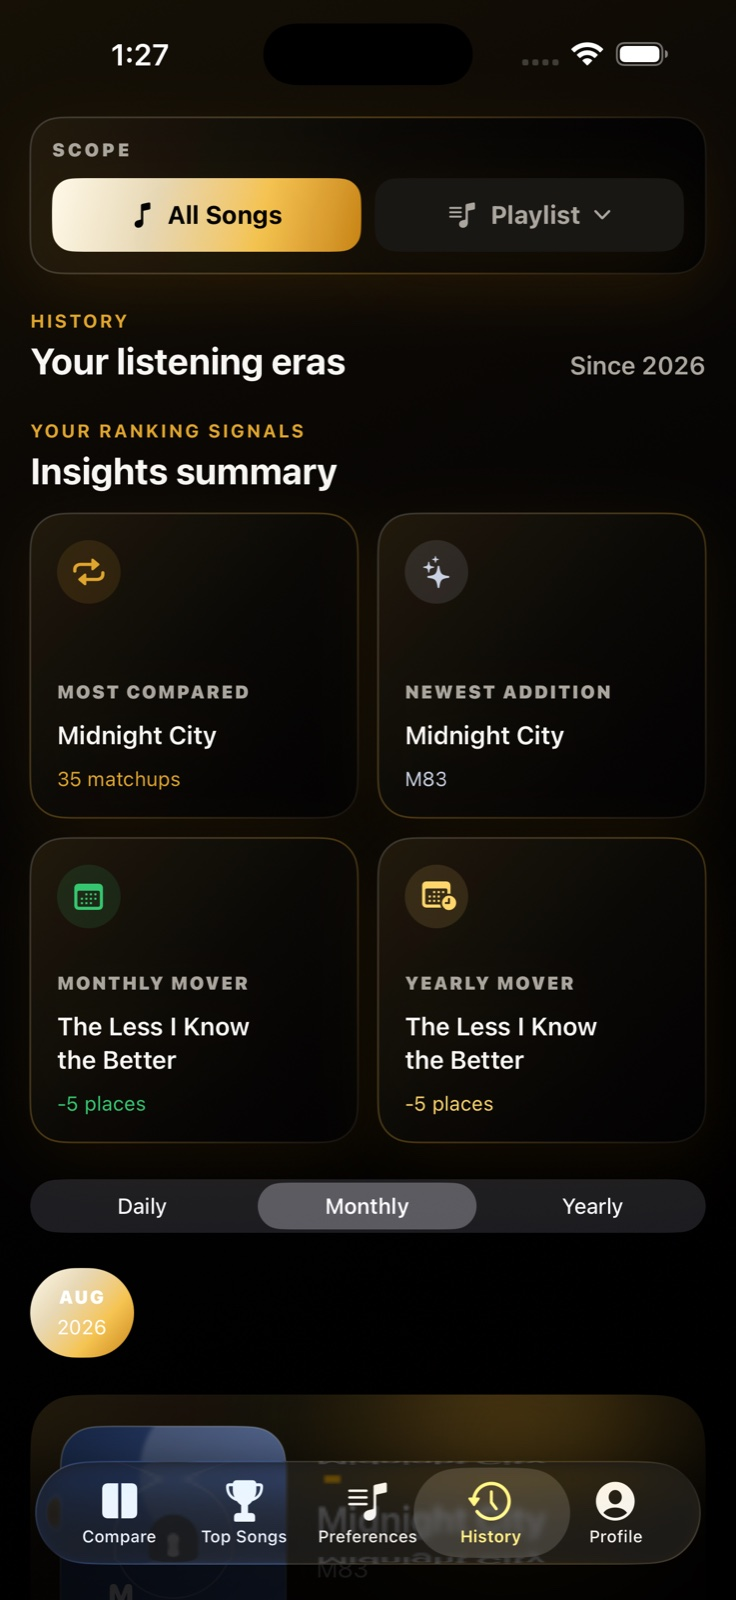
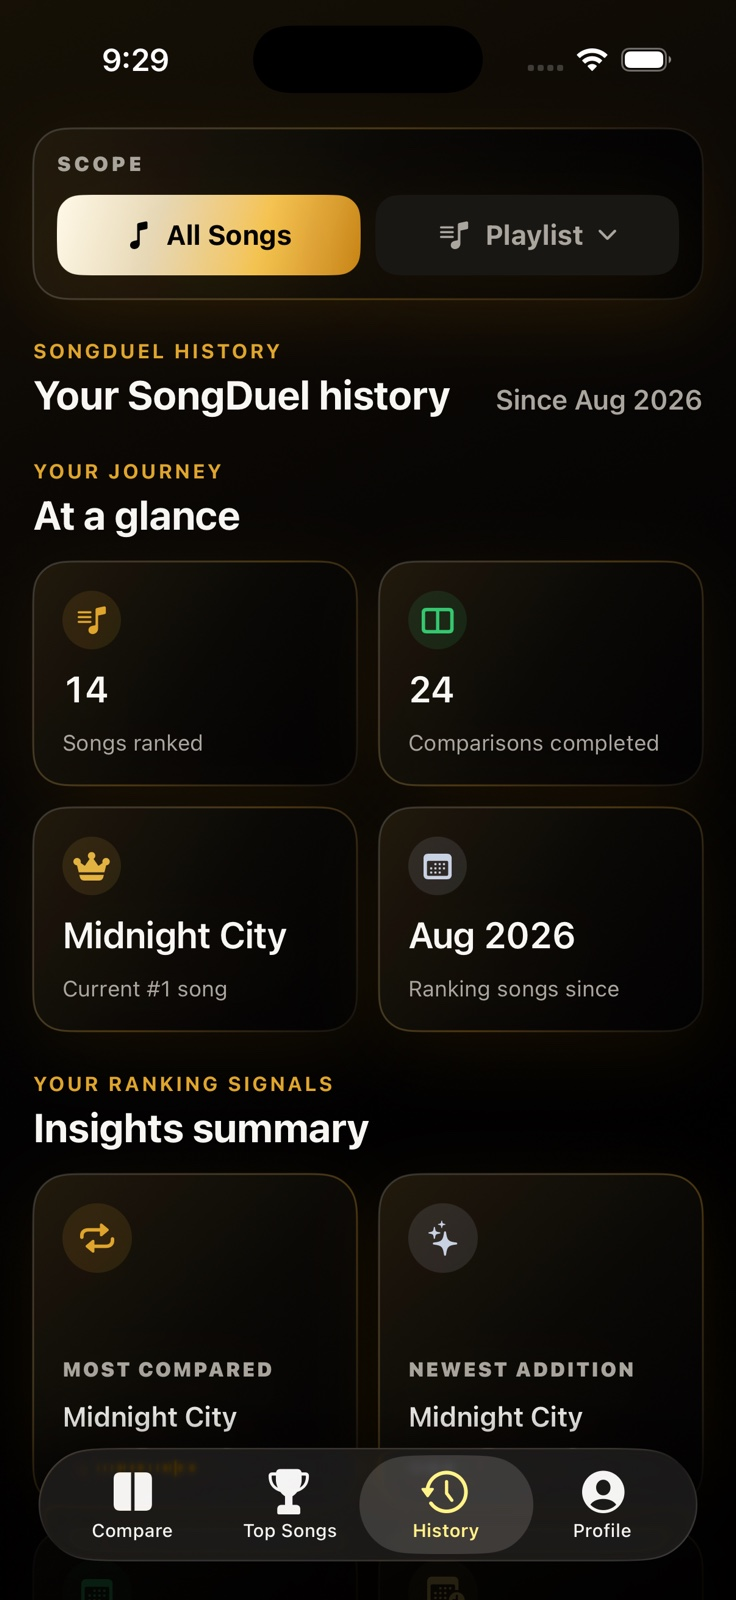
Update website for SongDuel Build 11

diff --git a/index.html b/index.html
@@ -67,11 +67,11 @@
           <div class="orbit orbit-two" aria-hidden="true"></div>
           <div class="phone phone-left" aria-hidden="true">
             <div class="phone-island"></div>
-            <img src="assets/screen-compare.jpg" alt="" width="736" height="1600">
+            <img src="assets/screen-rankings.jpg" alt="" width="736" height="1600">
           </div>
           <div class="phone phone-main">
             <div class="phone-island" aria-hidden="true"></div>
-            <img src="assets/screen-rankings.jpg" alt="SongDuel Top Songs screen showing a personal Top 3 podium and ranked list" width="736" height="1600">
+            <img src="assets/screen-compare.jpg" alt="SongDuel comparison screen showing two songs ready for a head-to-head pick" width="736" height="1600">
           </div>
           <div class="phone phone-right" aria-hidden="true">
             <div class="phone-island"></div>
@@ -118,13 +118,13 @@
             <div class="step-number">02</div>
             <div class="versus-mini" aria-hidden="true"><span>A</span><b>VS</b><span>B</span></div>
             <h3>Choose your favorite</h3>
-            <p>Make quick, low-pressure picks. Preview a song, choose a winner, or skip the matchup.</p>
+            <p>Preview either song, choose a winner or skip—and use the three-second undo window if instinct changes.</p>
           </article>
           <article class="step-card" data-reveal>
             <div class="step-number">03</div>
             <div class="step-icon icon-podium" aria-hidden="true"><span></span><span></span><span></span></div>
             <h3>Watch your taste emerge</h3>
-            <p>Every choice sharpens your live ranking and adds a new point to your music history.</p>
+            <p>Rankings and History begin after three picks, then grow more meaningful with every matchup.</p>
           </article>
         </div>
       </div>
@@ -168,15 +168,15 @@
           <article class="feature-panel copy-panel" data-reveal>
             <span class="feature-index">01 / LIVE RANKINGS</span>
             <h3>A Top 25 that earns its place.</h3>
-            <p>See scores, movement, matchup totals, and a podium that changes as your choices do.</p>
+            <p>Your full Top 25 unlocks after 1,000 comparisons across a broad set of songs—so it reflects real signal, not a first impression.</p>
             <ul>
-              <li>Search songs and artists</li>
-              <li>Filter by playlist</li>
-              <li>Share your Top 3</li>
+              <li>Live milestone progress</li>
+              <li>Search and playlist filters</li>
+              <li>Share your Top 3 once unlocked</li>
             </ul>
           </article>
           <div class="feature-panel image-panel" data-reveal>
-            <div class="phone feature-phone"><div class="phone-island" aria-hidden="true"></div><img src="assets/screen-rankings.jpg" alt="SongDuel live ranking screen" loading="lazy" width="736" height="1600"></div>
+            <div class="phone feature-phone"><div class="phone-island" aria-hidden="true"></div><img src="assets/screen-rankings.jpg" alt="SongDuel Top Songs screen showing progress toward a reliable Top 25" loading="lazy" width="736" height="1600"></div>
           </div>
           <div class="feature-panel image-panel history-panel" data-reveal>
             <div class="phone feature-phone"><div class="phone-island" aria-hidden="true"></div><img src="assets/screen-history.jpg" alt="SongDuel listening history and insights screen" loading="lazy" width="736" height="1600"></div>
@@ -184,16 +184,16 @@
           <article class="feature-panel copy-panel" data-reveal>
             <span class="feature-index">02 / LISTENING ERAS</span>
             <h3>Your taste has a story.</h3>
-            <p>Daily, monthly, and yearly snapshots show the songs and artists shaping every era.</p>
+            <p>See how many songs you have ranked, your comparison total, current number one, and when your ranking journey began.</p>
             <ul>
-              <li>Biggest movers</li>
-              <li>Top artists and albums</li>
-              <li>Ranking history over time</li>
+              <li>At-a-glance journey metrics</li>
+              <li>Biggest movers and ranking signals</li>
+              <li>Daily, monthly, and yearly snapshots</li>
             </ul>
           </article>
         </div>
         <div class="feature-strip" data-reveal>
-          <div><span class="strip-icon">♫</span><strong>Apple Music sync</strong><small>Import your library and playlists</small></div>
+          <div><span class="strip-icon">♫</span><strong>Sync while you compare</strong><small>Live import progress keeps the music flowing</small></div>
           <div><span class="strip-icon">↗</span><strong>Your Top 10 playlist</strong><small>Publish your favorites back to Apple Music</small></div>
           <div><span class="strip-icon">◫</span><strong>Made to share</strong><small>Export polished Top 3 cards</small></div>
         </div>
@@ -232,7 +232,7 @@
         <div class="faq-list" data-reveal>
           <details>
             <summary>How does SongDuel rank my music?<span></span></summary>
-            <p>Each head-to-head pick updates both songs with an Elo-style rating. Winning an unexpected matchup matters more than winning an obvious one, so the ranking gets sharper with every choice.</p>
+            <p>Each head-to-head pick updates both songs with an Elo-style rating. Rankings begin after three picks, while the reliable Top 25 unlocks after 1,000 comparisons across the breadth of songs shown in the app.</p>
           </details>
           <details>
             <summary>Do I need an Apple Music subscription?<span></span></summary>

diff --git a/support.html b/support.html
@@ -26,7 +26,7 @@
         <article class="legal-copy">
           <section id="basics"><h2>Start with the basics</h2><ul><li>Confirm your iPhone has a working internet connection.</li><li>Update SongDuel and iOS to the latest available versions.</li><li>Force-quit SongDuel, reopen it, and leave it active briefly so sync can finish.</li><li>If a specific song has no preview, use its Apple Music button. Apple Music does not supply a preview for every track.</li></ul></section>
           <section id="apple-music"><h2>Apple Music connection</h2><ul><li>Open iOS Settings and confirm you are signed in under Media &amp; Purchases.</li><li>In the Music settings, turn on Sync Library.</li><li>Confirm SongDuel is allowed to access Media &amp; Apple Music.</li><li>Open Profile in SongDuel, disconnect Apple Music, and reconnect it if authorization has expired.</li><li>Full-song playback and some library features require an active Apple Music subscription.</li></ul><p>Disconnecting Apple Music does not delete or sign out your SongDuel account.</p></section>
-          <section id="sync"><h2>Library, ranking, and sync</h2><p>SongDuel saves picks offline first, so a comparison should not wait for the network. Cloud backup and restore occur separately after you sign in.</p><ul><li>Use the playlist filters to confirm the missing song is in the selected scope.</li><li>SongDuel needs at least two eligible songs for a comparison and three completed picks to unlock rankings and history.</li><li>Leave the app open after connecting a large library; the first paginated import can take several minutes and displays progress while it runs.</li><li>The Top 10 playlist becomes available after ten eligible songs are ranked.</li></ul></section>
+          <section id="sync"><h2>Library, ranking, and sync</h2><p>SongDuel saves picks offline first, so a comparison should not wait for the network. Cloud backup and restore occur separately after you sign in.</p><ul><li>Use the playlist filters to confirm the missing song is in the selected scope.</li><li>SongDuel needs at least two eligible songs for a comparison. Rankings and History begin after three completed picks.</li><li>The reliable Top 25 and historical Top 10 unlock after 1,000 comparisons and the song-coverage milestone shown in the app.</li><li>You can keep comparing while a large Apple Music library imports; SongDuel displays live progress as it runs.</li><li>The Top 10 playlist becomes available after ten eligible songs are ranked.</li></ul></section>
           <section id="account"><h2>Account and data controls</h2><p>Open Profile in SongDuel to disconnect Apple Music, delete ranking data without signing out, log out, or permanently delete your SongDuel account. Permanent deletion requires confirmation with the same Apple Account so SongDuel can revoke its Sign in with Apple grant before removing associated cloud data, subject to limited security, legal, and backup retention described in the <a href="privacy.html">Privacy Policy</a>.</p></section>
           <section id="contact"><h2>Contact support</h2><p>Email <a href="mailto:ssmk.consulting@icloud.com">ssmk.consulting@icloud.com</a> and include:</p><ul><li>a short description of what happened and what you expected;</li><li>the SongDuel app version;</li><li>your iPhone model and iOS version; and</li><li>steps that reliably reproduce the problem, if known.</li></ul><p class="legal-note"><strong>Do not send secrets.</strong> Never include passwords, Apple credentials, authentication tokens, private relay addresses, or personal music history.</p><p>Support requests are reviewed as soon as practical. SongDuel is operated by SSMK Consulting LLC in South Carolina, United States.</p></section>
         </article>
